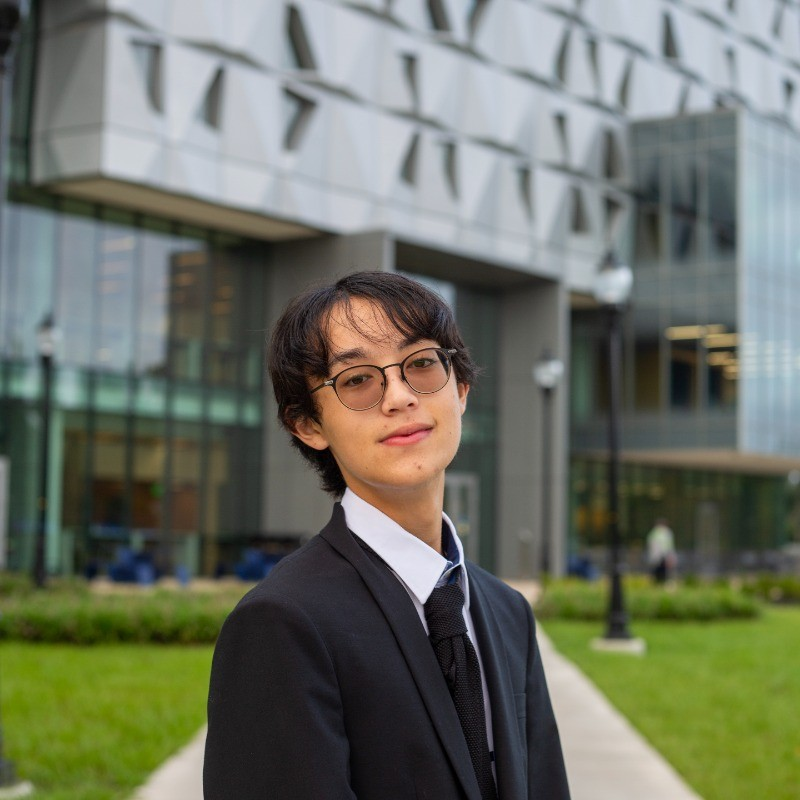
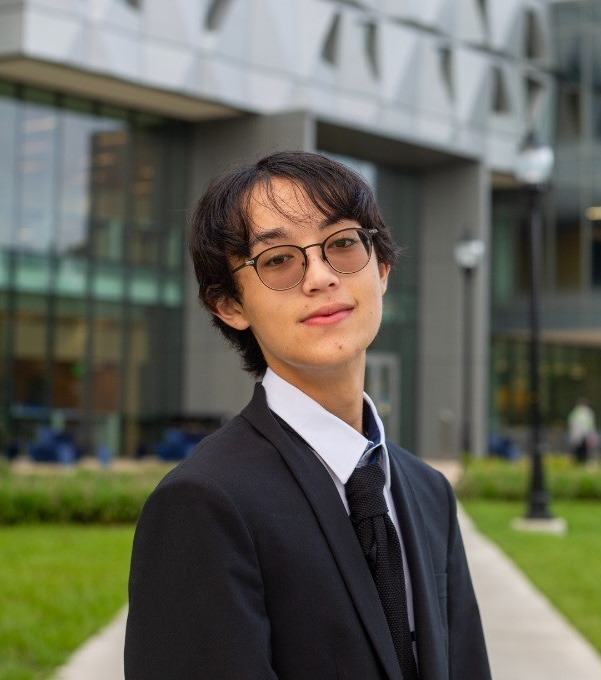
import new team lead photos & quotes

diff --git a/src/client/information/People.ts b/src/client/information/People.ts
@@ -1,16 +1,16 @@
 import JustinDoan from "@assets/board/JustinDoan.jpg";
 import LeannTang from "@assets/board/LeannTang.jpg";
 import ManavSanghvi from "@assets/board/ManavSanghvi.jpg";
-import AadithiArjun from "@assets/webdev/AadithiArjun.jpeg";
+import AadithiArjun from "@assets/webdev/AadithiArjun.jpg";
 import GurleenDhillon from "@assets/webdev/GurleenDhillon.jpeg";
 import HelenZou from "@assets/webdev/HelenZou.png";
 import JordanKusuda from "@assets/webdev/JordanKusuda.jpeg";
 import JuliaLe from "@assets/webdev/JuliaLe.jpeg";
-import KenzoFukuda from "@assets/webdev/KenzoFukuda.jpeg";
+import KenzoFukuda from "@assets/webdev/KenzoFukuda.jpg";
 import LynetteHemingway from "@assets/webdev/LynetteHemingway.png";
 import MarenHeck from "@assets/webdev/MarenHeck.jpeg";
 import RickyZhang from "@assets/webdev/RickyZhang.jpg";
-import RJTabelon from "@assets/webdev/RJTabelon.png";
+import RJTabelon from "@assets/webdev/RJTabelon.jpeg";
 import StephanieFong from "@assets/webdev/StephanieFong.png";
 import ThuyLe from "@assets/webdev/ThuyLe.png";
 import VincentLin from "@assets/webdev/VincentLin.jpeg";
@@ -166,15 +166,15 @@ export const SWTTeamLeads: Array<{
       {
         name: "Kenzo Fukuda",
         image: KenzoFukuda,
-        quote: "i love sase!",
+        quote: "skating into the codebase",
         role: "Frontend & UI/UX",
         mobileAlign: "left",
         mobileColor: "green",
       },
       {
-        name: "Aadithi Arju",
+        name: "Aadithi Arjun",
         image: AadithiArjun,
-        quote: "i love sase!",
+        quote: "it's a moo point",
         role: "Frontend & UI/UX",
         mobileAlign: "right",
         mobileColor: "blue",
@@ -182,7 +182,7 @@ export const SWTTeamLeads: Array<{
       {
         name: "Vincent Lin",
         image: VincentLin,
-        quote: "i love sase!",
+        quote: "i love my goated swt",
         role: "Backend",
         mobileAlign: "left",
         mobileColor: "green",
@@ -190,7 +190,7 @@ export const SWTTeamLeads: Array<{
       {
         name: "Jordan Kusuda",
         image: JordanKusuda,
-        quote: "i love sase!",
+        quote: "Because bread tastes better than key",
         role: "Backend",
         mobileAlign: "right",
         mobileColor: "blue",
